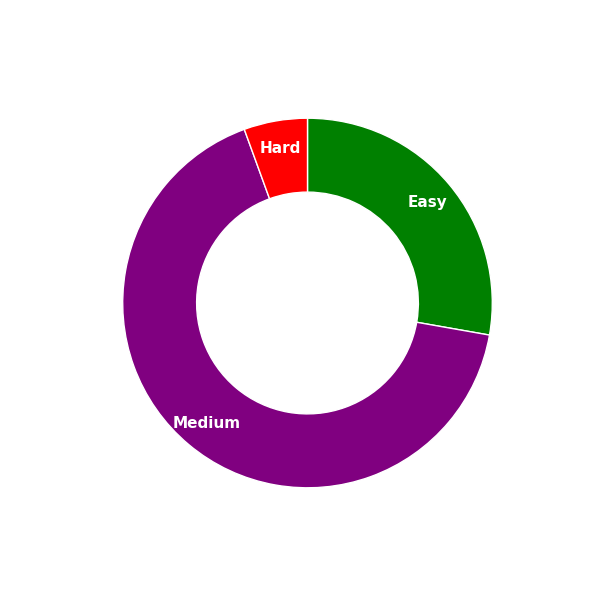
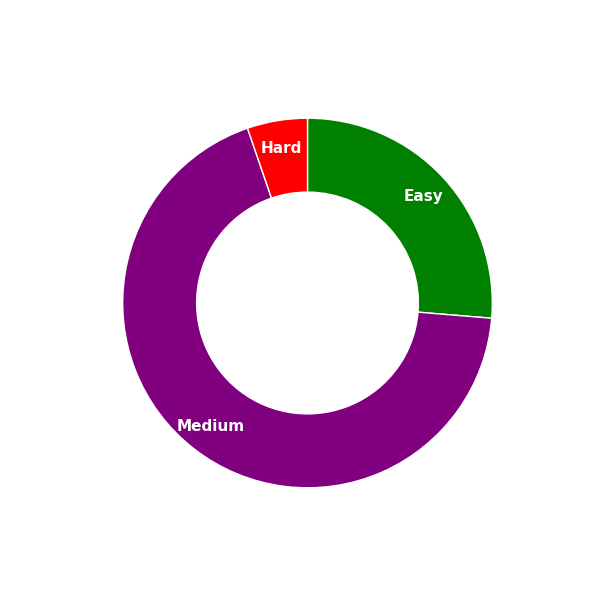
Update README and template to reflect progress and add Stack category

diff --git a/README.md b/README.md
@@ -20,20 +20,21 @@ leetcode-solutions/
 ## ✅ Problem Categories
 
 - Array
+- Stack
 
 ## 📈 Progress
 
-> 📅 **Last updated on:** July 05, 2025
+> 📅 **Last updated on:** July 06, 2025
 
 | Difficulty | Solved |
 | ---------- | ------ |
 | Easy       | 05     |
-| Medium     | 12     |
+| Medium     | 13     |
 | Hard       | 01     |
 
 # Progress Chart
 
-> 📅 **Last updated on:** July 05, 2025
+> 📅 **Last updated on:** July 06, 2025
 
 ![Chart](assets/problem-solved-count-chart.png)
 

diff --git a/README.template.md b/README.template.md
@@ -20,6 +20,7 @@ leetcode-solutions/
 ## ✅ Problem Categories
 
 - Array
+- Stack
 
 ## 📈 Progress
 
